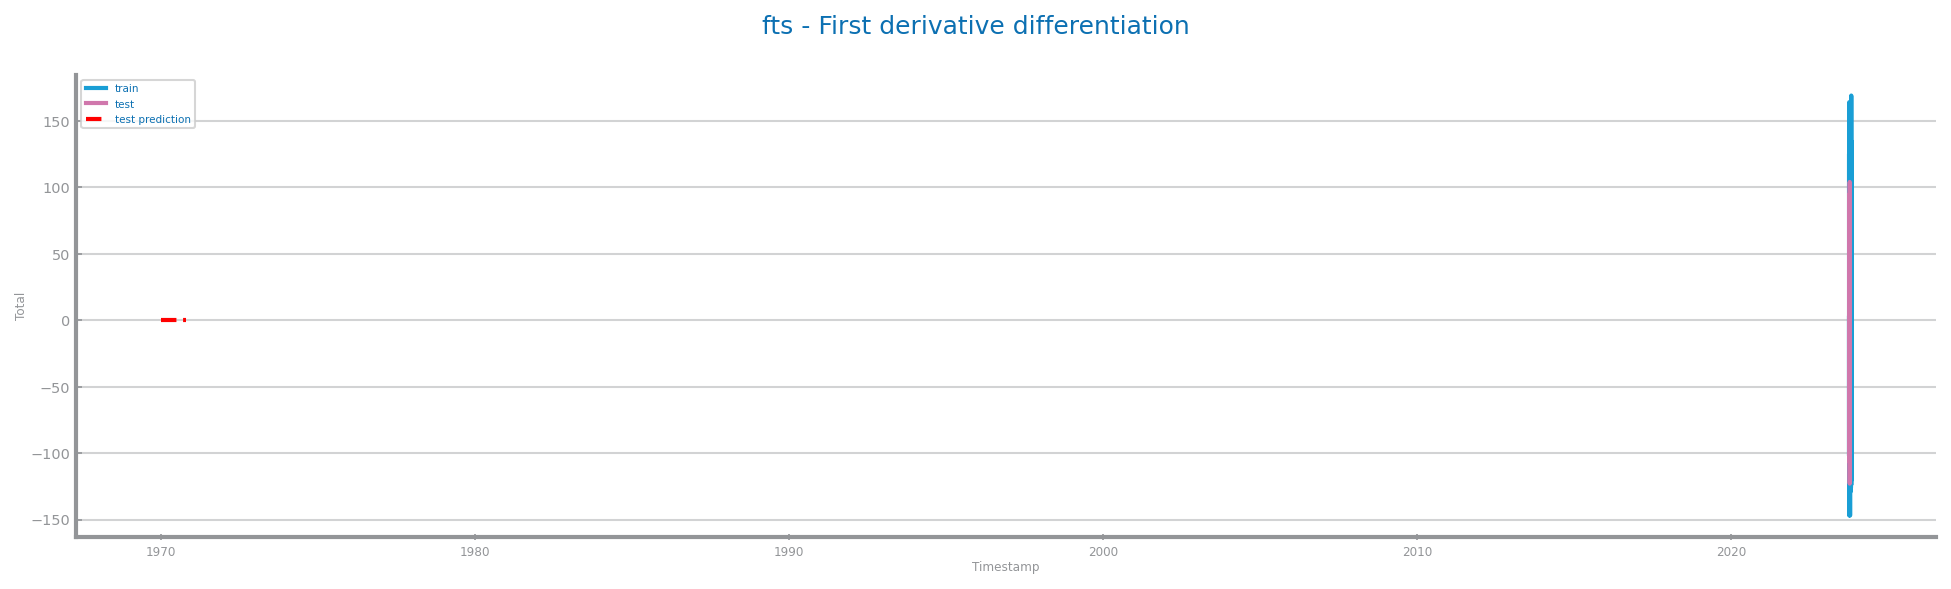
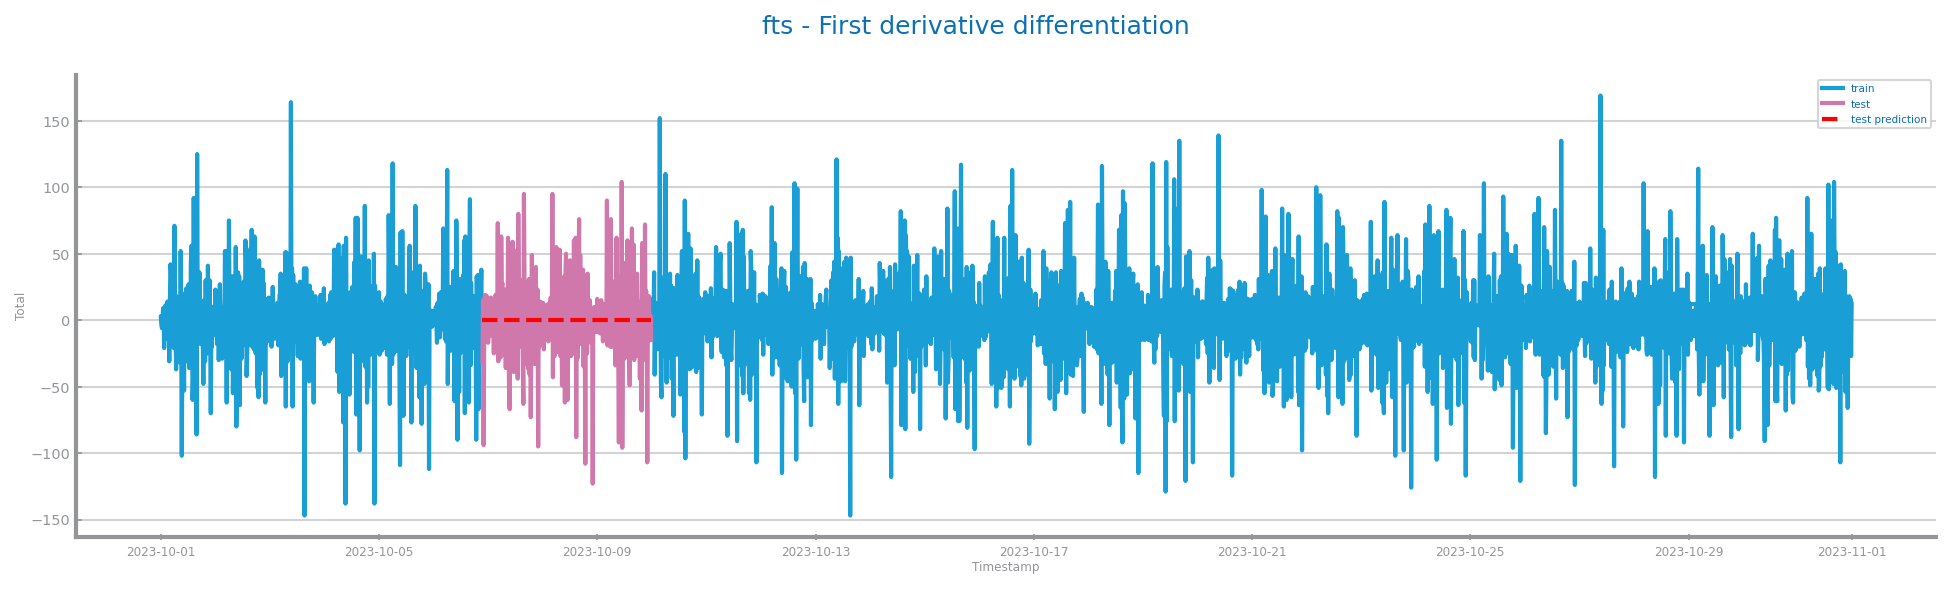
fix: final fix to forecasting differentiation study

diff --git a/dataset2/ts_transformation.py b/dataset2/ts_transformation.py
@@ -171,8 +171,8 @@ def forecasting_after_differentation(file_tag, target, index, filename, diff):
     
     model = LinearRegression()
     model.fit(trnX, trnY)
-    prd_trn: Series = Series(model.predict(trnX))
-    prd_tst: Series = Series(model.predict(tstX))
+    prd_trn: Series = Series(model.predict(trnX), index=train.index)
+    prd_tst: Series = Series(model.predict(tstX), index=test.index)
     
     plot_forecasting_eval(
         trn=train,
